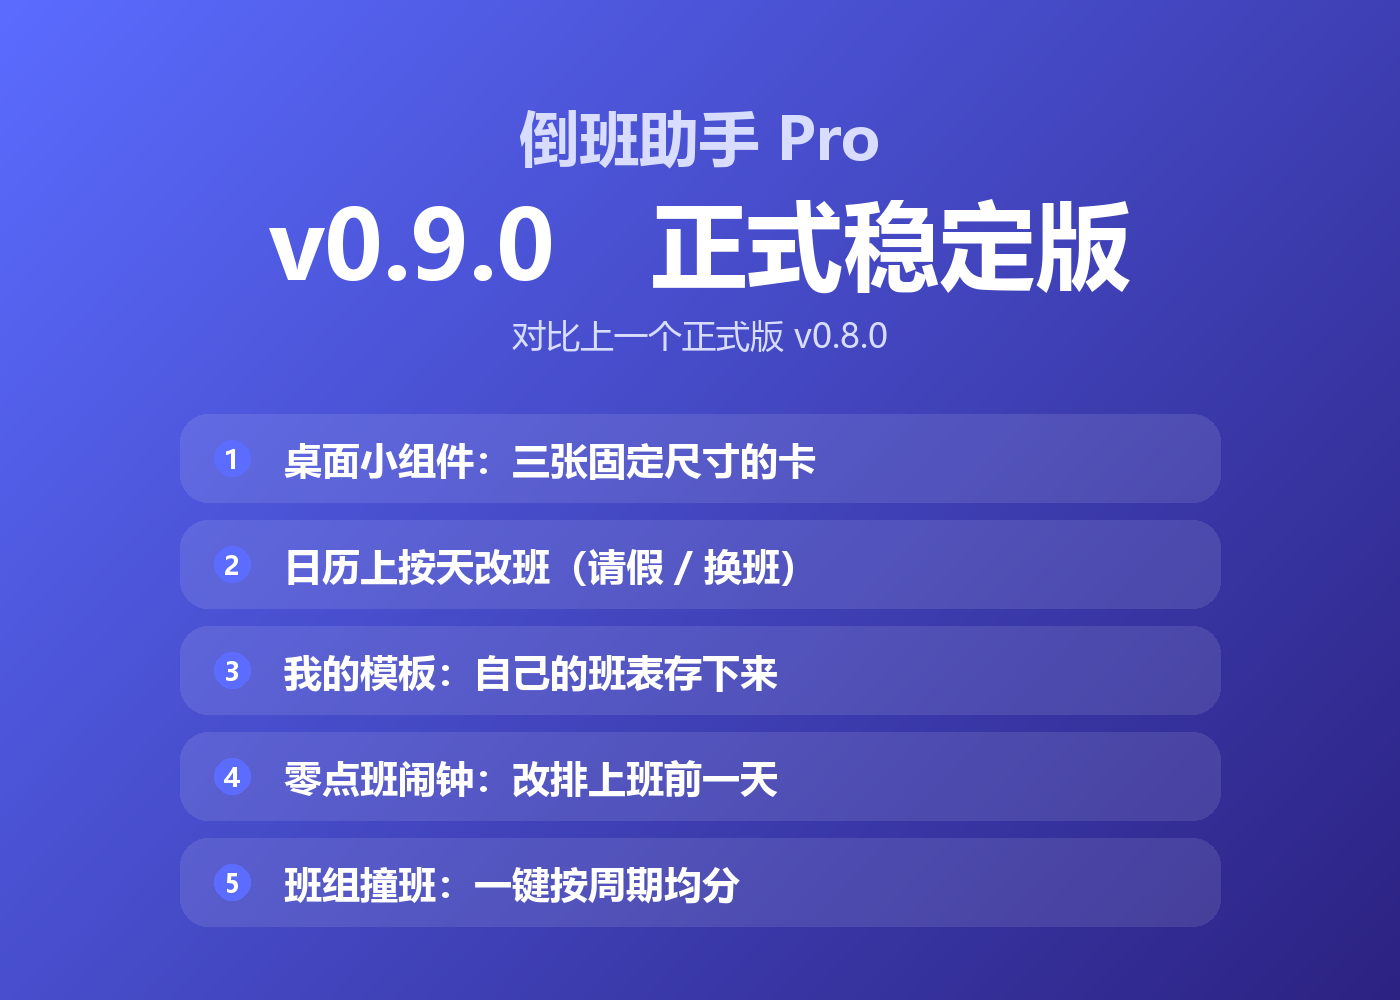
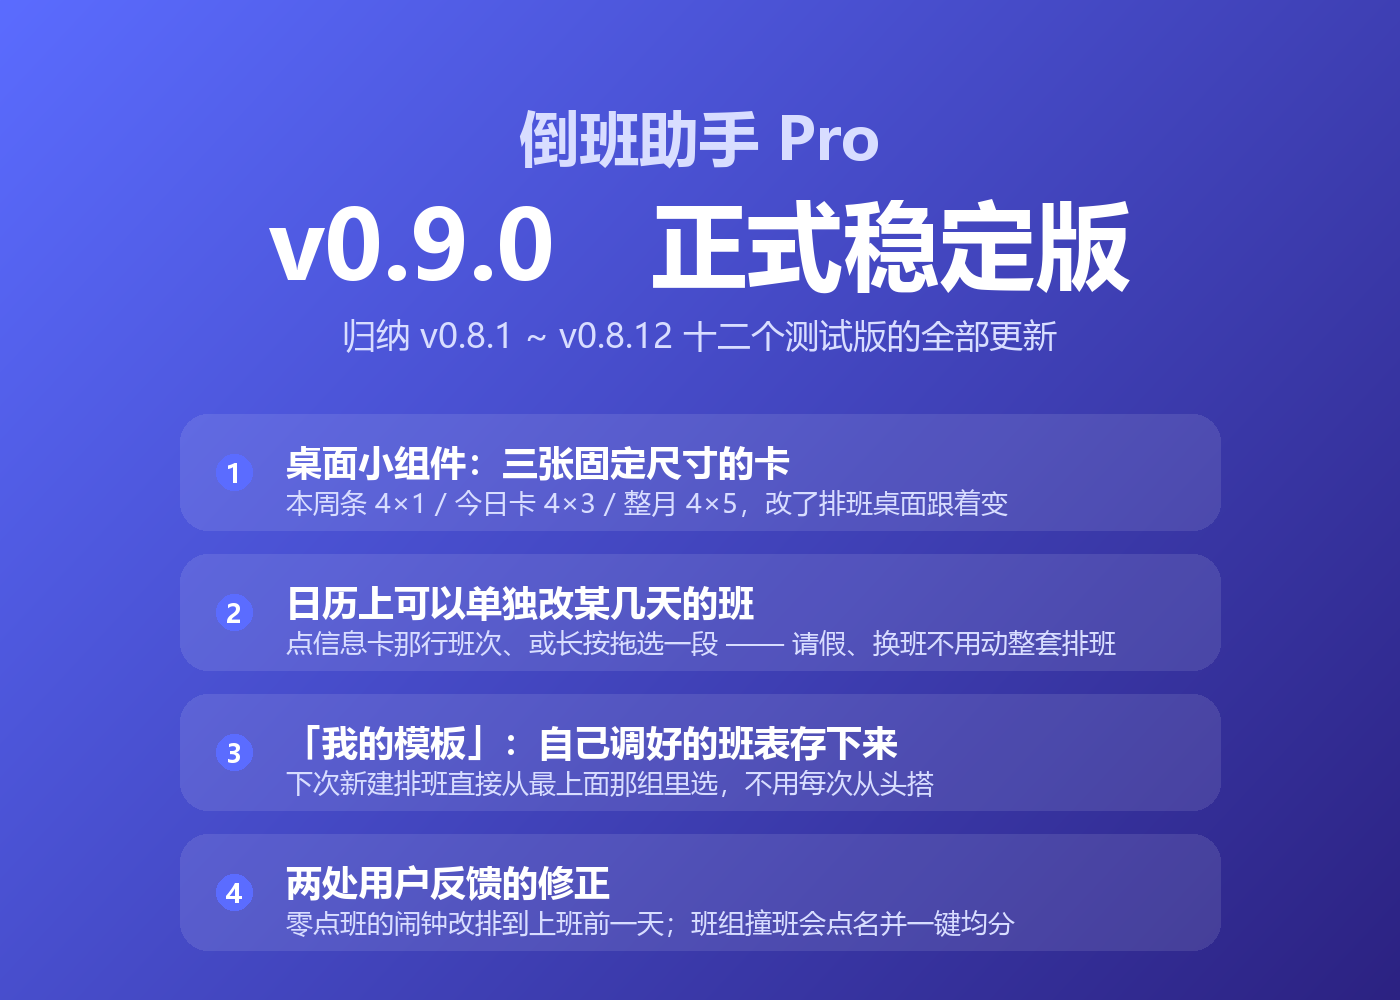
docs(images): v0.9.0 说明图改回带解释的版本
用户反馈：「本来文案咱就精简了，你这图再精简，那怎么看得懂啊？」—— 文案与图是
分工的：文案只列「这版多了什么」，图里得把每件事说清楚。上一轮我按误解把图里
的说明砍成圈号标签，现在整组回到 `f2376f1` 那一版（逐字节相同，脚本一并回退，
免得下次重跑又出成精简版）。

diff --git a/scripts/make_update_images.py b/scripts/make_update_images.py
@@ -437,26 +437,28 @@ def cover_090():
            fill=INK_SUB, anchor='ma')
     d.text((W / 2, 178), 'v0.9.0　正式稳定版', font=_font('msyhbd.ttc', 96),
            fill=INK, anchor='ma')
-    d.text((W / 2, 312), '对比上一个正式版 v0.8.0',
+    d.text((W / 2, 312), '归纳 v0.8.1 ~ v0.8.12 十二个测试版的全部更新',
            font=_font('msyh.ttc', 34), fill=INK_SUB, anchor='ma')
 
-    # 评论区回复用：一行一件事，不写副标题
     items = [
-        '桌面小组件：三张固定尺寸的卡',
-        '日历上按天改班（请假 / 换班）',
-        '我的模板：自己的班表存下来',
-        '零点班闹钟：改排上班前一天',
-        '班组撞班：一键按周期均分',
+        ('桌面小组件：三张固定尺寸的卡',
+         '本周条 4×1 / 今日卡 4×3 / 整月 4×5，改了排班桌面跟着变'),
+        ('日历上可以单独改某几天的班',
+         '点信息卡那行班次、或长按拖选一段 —— 请假、换班不用动整套排班'),
+        ('「我的模板」：自己调好的班表存下来',
+         '下次新建排班直接从最上面那组里选，不用每次从头搭'),
+        ('两处用户反馈的修正',
+         '零点班的闹钟改排到上班前一天；班组撞班会点名并一键均分'),
     ]
     y = 414
-    for i, head in enumerate(items):
-        _panel(img, (180, y, W - 180, y + 88))
-        d.ellipse((214, y + 26, 250, y + 62), fill=ACCENT)
-        d.text((232, y + 44), str(i + 1), font=_font('msyhbd.ttc', 26),
+    for i, (head, tail) in enumerate(items):
+        _panel(img, (180, y, W - 180, y + 116))
+        d.ellipse((216, y + 40, 252, y + 76), fill=ACCENT)
+        d.text((234, y + 58), str(i + 1), font=_font('msyhbd.ttc', 26),
                fill=INK, anchor='mm')
-        d.text((284, y + 44), head, font=_font('msyhbd.ttc', 38), fill=INK,
-               anchor='lm')
-        y += 106
+        d.text((286, y + 22), head, font=_font('msyhbd.ttc', 36), fill=INK)
+        d.text((286, y + 70), tail, font=_font('msyh.ttc', 27), fill=INK_SUB)
+        y += 140
     return img.convert('RGB')
 
 
@@ -484,9 +486,9 @@ def widgets_090():
 
     # 圈号贴在卡片旁边（不压住内容），右侧一列说明
     marks = [
-        (xa + a.width * 0.5, y + a.height * 0.20, '本周条 4×1', '今天这一周'),
-        (xa + a.width * 0.5, y + a.height * 0.62, '今日卡 4×3', '今日详情'),
-        (xb + b.width * 0.5, y + b.height * 0.46, '整月 4×5', '整月网格'),
+        (xa + a.width * 0.5, y + a.height * 0.20, '本周条 4×1', '今天所在这一周的七天'),
+        (xa + a.width * 0.5, y + a.height * 0.62, '今日卡 4×3', '底栏那张信息卡的完整版'),
+        (xb + b.width * 0.5, y + b.height * 0.46, '整月 4×5', '月份标题 + 42 格月历'),
     ]
     for i, (cx, cy, head, tail) in enumerate(marks):
         d.ellipse((cx - 21, cy - 21, cx + 21, cy + 21), fill=ACCENT,
@@ -499,47 +501,60 @@ def widgets_090():
                fill=INK, anchor='mm')
         d.text((1036, ly - 14), head, font=_font('msyhbd.ttc', 34), fill=INK)
         d.text((1036, ly + 40), tail, font=_font('msyh.ttc', 25), fill=INK_SUB)
-    d.text((W / 2, H - 76), '点某一天直接跳到那天的日历',
-           font=_font('msyh.ttc', 26), fill=INK_SUB, anchor='ma')
+    d.text((W / 2, H - 96),
+           '两张卡同屏放不下时，第三张会自动排到相邻那一屏 —— 三张都是「添加一次、各自独立」的卡。',
+           font=_font('msyh.ttc', 25), fill=INK_SUB, anchor='ma')
+    d.text((W / 2, H - 56),
+           '点整卡开 App，点某一天跳到那天的日历；小米 / HyperOS：长按桌面 → 添加小部件 → 支持小部件的应用 → 安卓小部件。',
+           font=_font('msyh.ttc', 25), fill=(170, 178, 220), anchor='ma')
     return img.convert('RGB')
 
 
 def override_090():
     return _pair(
-        '日历上按天改班',
-        '长按格子拖选一段，或点信息卡上那行班次',
+        '日历上可以单独改某几天的班（请假 / 换班）',
+        '长按格子拖选一段（可跨周、不跨月），或点信息卡上那行班次',
         '10_calendar_adjusted_light.png', '11_override_picker_light.png',
-        '① 改过的那天', '② 选择层',
-        ['只作用于我们班组；改了之后联动闹钟自动跟着变。'],
+        '① 被改过的那天', '② 选择层',
+        ['① 被改过的那天：格子上带小圆点、信息卡写「已调班」。',
+         '② 选择层里挑班次；范围里已有调整时，多一条「恢复轮转」。',
+         '只作用于我们班组（其他班组视图仍是纯轮转）；改了之后联动闹钟自动跟着变。'],
         base=VIS)
 
 
 def templates_090():
     return _pair(
-        '我的模板：自己的班表存下来',
-        '下次新建排班直接从最上面那组里选',
+        '「我的模板」：把调好的班表存下来',
+        '编辑器右上角「存为模板」→ 下次新建排班时直接选它',
         '13_editor_midnight_light.png', '16_template_picker_mine_light.png',
         '① 编辑器右上角', '② 新建排班时',
-        [],
+        ['① 排班编辑器右上角点「存为模板」—— 存的就是眼下这套（含还没保存的改动）。',
+         '② 下次新建排班时，它排在选择页最上面的「我的模板」一组里，一键建出同样的结构。',
+         '存的是班表结构：班次定义、周期表、各班组错开的天数。标题旁的「管理」里可改名、删除。'],
         base=VIS)
 
 
 def midnight_090():
     return _pair(
-        '零点班闹钟：改排上班前一天',
-        '00:00 上班、响铃 23:00 —— 从前排在班后，现在排在上班前 1 小时',
+        '零点班（00:00 上班）的闹钟改排到上班前一天',
+        '用户反馈：从前排在班次当天 23:00 —— 那会儿这个班已经结束 15 小时了',
         '13_editor_midnight_light_scrolled.png', '14_alarm_midnight_light.png',
-        '① 班次设置', '② 闹钟列表',
-        [],
+        '① 班次设置里', '② 闹钟列表里',
+        ['① 班次设置里响铃那一块直接写成「前一天 23:00」，下面还有一行说明。',
+         '② 闹钟页的列表行同样标「前一天」，一眼看得出是哪天响。',
+         '新规则：响铃时刻取「不晚于上班时刻的最近一次该钟点」，也就是上班前 1 小时；',
+         '早班、中班这些响铃本来就排在上班之前的班次不受影响。'],
         base=VIS)
 
 
 def clash_090():
     return _single(
-        '班组撞班：点名 + 一键均分',
-        '把 5 天一轮改成 10 天之后，同一天有两个班组上同一个班',
+        '班组撞班：点名 + 一键按周期长度均分',
+        '用户反馈：把 5 天一轮改成 10 天之后，同一天有两个班组上同一个班',
         '15_editor_crew_clash_light_scrolled.png',
-        ['编辑器的「周期设置」里点出相撞的班组，一键按周期长度均分'],
+        ['① 编辑器的「周期设置」里直接点出相撞的两个班组、以及有几天相撞',
+         '② 下面那个按钮把各组起始日按周期长度均分（你自己那一组不动）',
+         '③ 起因是周期长度变了、各组的「周期起始日」还按老的间隔错开'],
         dev_w=470, base=VIS)
 
 
